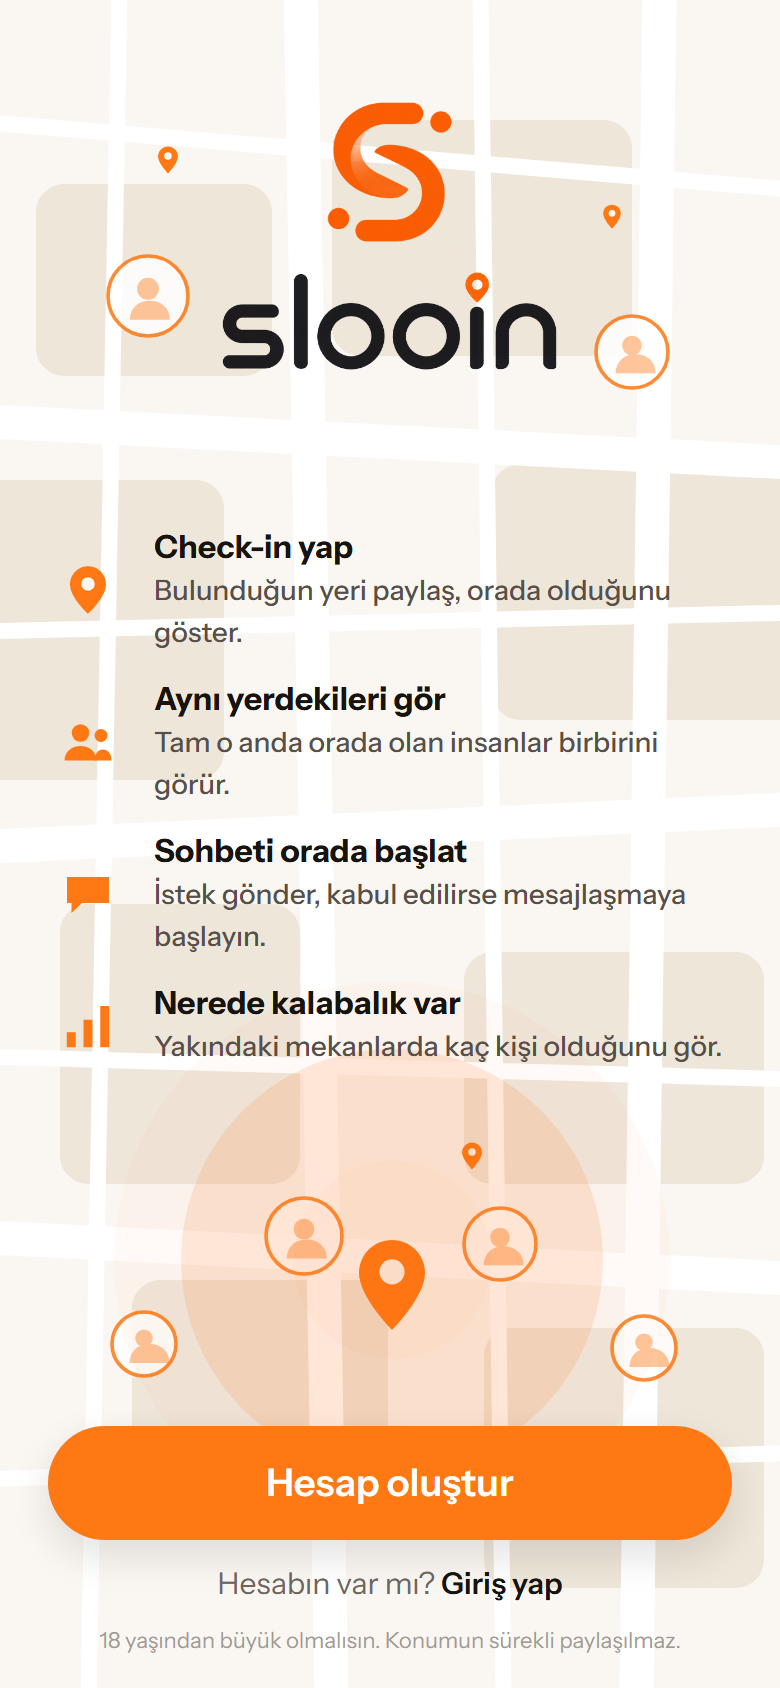
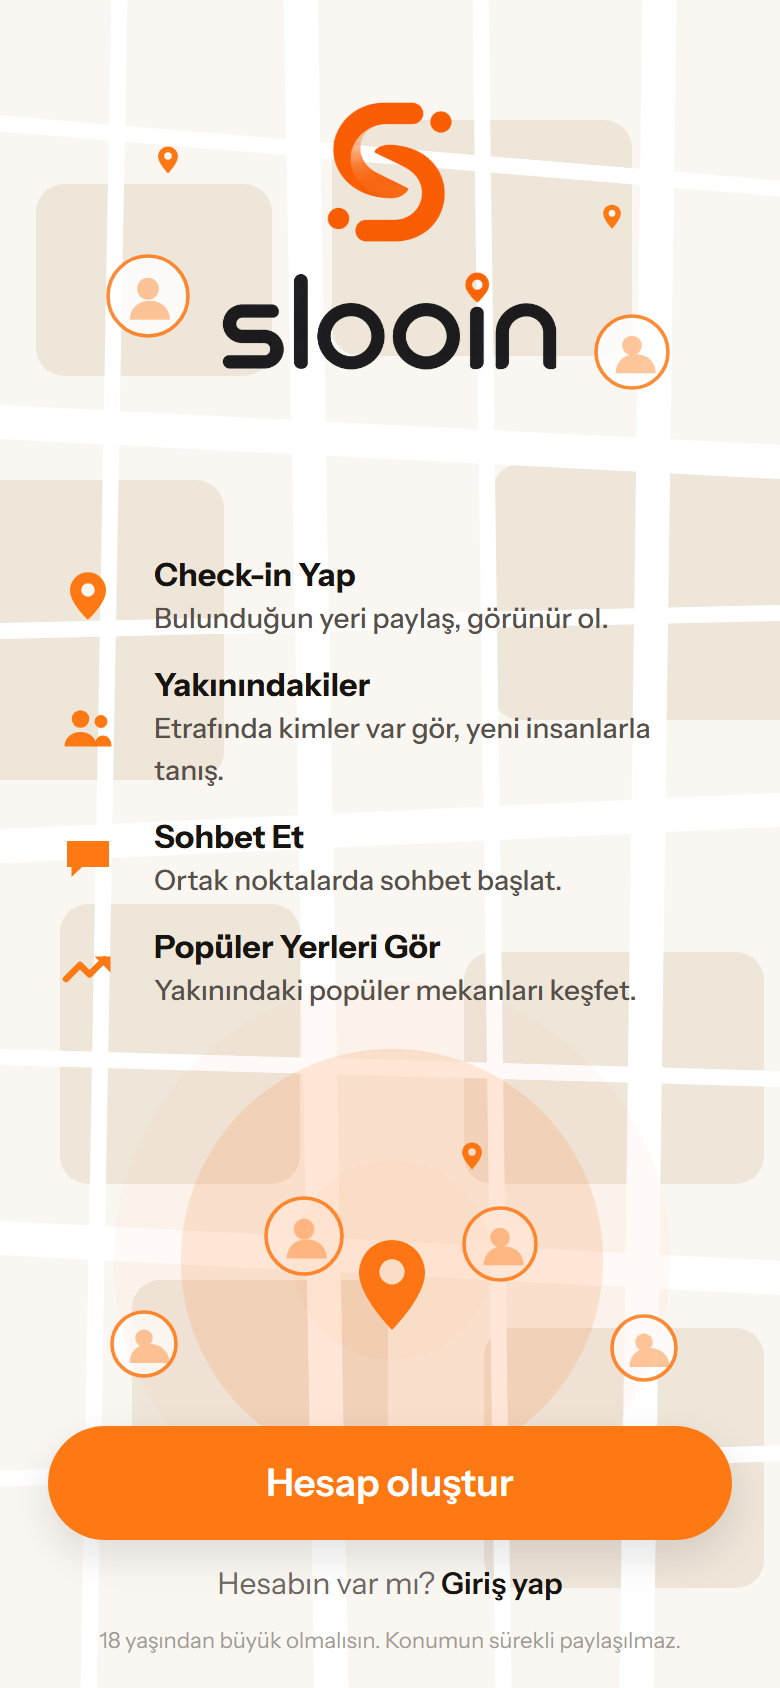
feat(metin): acilis ekranindaki dort tanitim maddesi guncellendi
Kullanicinin istegi (2026-08-25), verdigi ornek gorseldeki metinlerle:
- 'Ayni yerdekileri gor' -> 'Yakinindakiler'
- 'Sohbeti orada baslat' -> 'Sohbet Et'
- 'Nerede kalabalik var' -> 'Populer Yerleri Gor'
Ilk madde de ayni ornekten: 'Check-in Yap / Bulundugun yeri paylas,
gorunur ol.' Basliklar ornekteki gibi buyuk harfle basliyor; dordu de
ayni bicimde olsun diye ilki de oyle yazildi.

Dorduncu ikon sutun grafiginden yukselen oka cevrildi: 'populer
yerler' artan ilgi demek, yogunluk sayaci degil.

49 paket / 416 test yesil.

diff --git a/mobil/lib/ceviriler/tr.ts b/mobil/lib/ceviriler/tr.ts
@@ -26,14 +26,14 @@ export default {
       'Bulunduğun yere check-in yap, tam o anda orada olan başka insanları gör. Konum paylaşımı check-in yaptığın süreyle sınırlı.',
     dilEtiket: 'Dil',
     // Dort ozellik. Metinler kisa tutuldu: acilis ekrani okunmaz, taranir.
-    adim1Baslik: 'Check-in yap',
-    adim1Metin: 'Bulunduğun yeri paylaş, orada olduğunu göster.',
-    adim2Baslik: 'Aynı yerdekileri gör',
-    adim2Metin: 'Tam o anda orada olan insanlar birbirini görür.',
-    adim3Baslik: 'Sohbeti orada başlat',
-    adim3Metin: 'İstek gönder, kabul edilirse mesajlaşmaya başlayın.',
-    adim4Baslik: 'Nerede kalabalık var',
-    adim4Metin: 'Yakındaki mekanlarda kaç kişi olduğunu gör.',
+    adim1Baslik: 'Check-in Yap',
+    adim1Metin: 'Bulunduğun yeri paylaş, görünür ol.',
+    adim2Baslik: 'Yakınındakiler',
+    adim2Metin: 'Etrafında kimler var gör, yeni insanlarla tanış.',
+    adim3Baslik: 'Sohbet Et',
+    adim3Metin: 'Ortak noktalarda sohbet başlat.',
+    adim4Baslik: 'Popüler Yerleri Gör',
+    adim4Metin: 'Yakınındaki popüler mekanları keşfet.',
 
     hesapOlustur: 'Hesap oluştur',
     hesabinVarMi: 'Hesabın var mı?',

diff --git a/mobil/src/app/(auth)/karsilama.tsx b/mobil/src/app/(auth)/karsilama.tsx
@@ -72,8 +72,18 @@ function OzellikIkonu({ ad }: { ad: 'konum' | 'kisiler' | 'sohbet' | 'yogunluk' 
           />
         )}
         {ad === 'yogunluk' && (
+          // Yukselen ok: 'populer yerler' sutun grafiginden daha dogru
+          // anlatiyor - artan ilgi demek.
           <>
-            <Path d="M3.5 20.5h3.6v-6H3.5zM10.2 20.5h3.6V9.5h-3.6zM16.9 20.5h3.6V4h-3.6z" fill={R} />
+            <Path
+              d="M3.2 16.4l5.6-5.6 3.8 3.8 6-6"
+              stroke={R}
+              strokeWidth={2.6}
+              strokeLinecap="round"
+              strokeLinejoin="round"
+              fill="none"
+            />
+            <Path d="M14.6 7.4h6.4v6.4z" fill={R} />
           </>
         )}
       </Svg>
